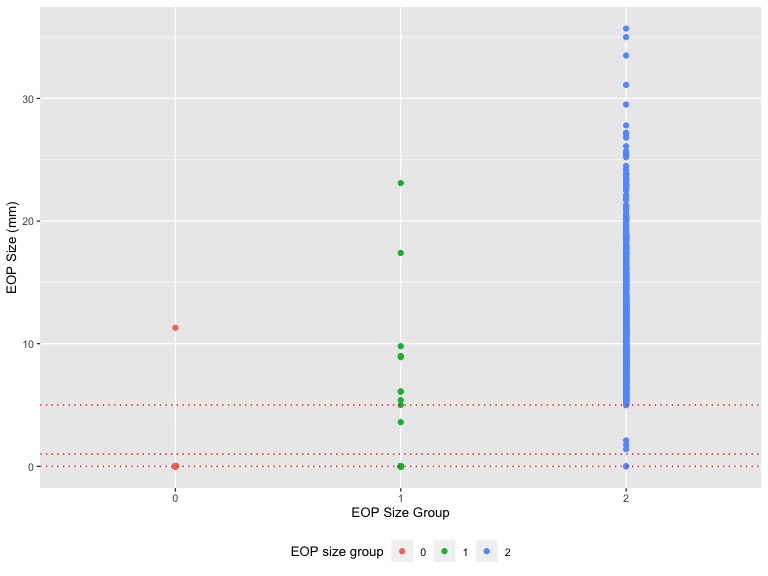
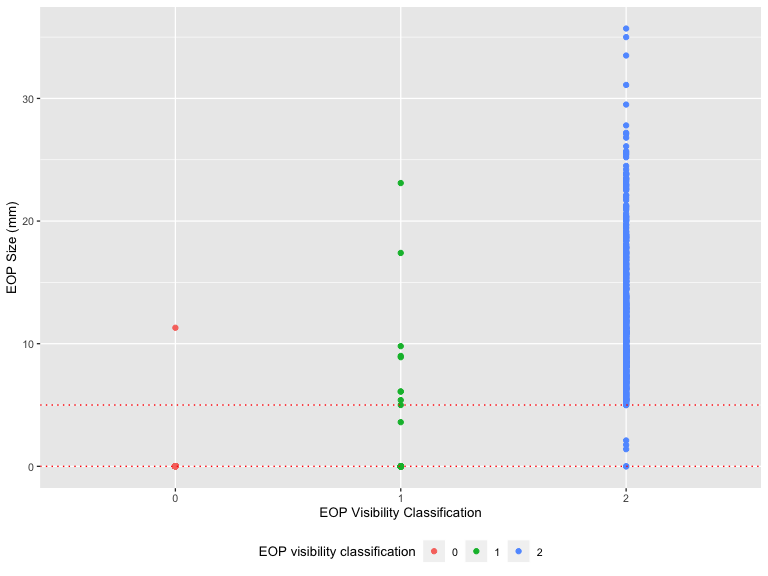
Update the report.

Changed region(s): [[0.3438, 0.9375, 0.6875, 0.9688], [0.4062, 0.875, 0.625, 0.9062]]

diff --git a/p8105_mtp_jc5314.md b/p8105_mtp_jc5314.md
@@ -5,19 +5,18 @@ Junxian Chen (jc5314)
 
 ## Introduction:
 
-An article was published on Nature Scientific Reports in 2018 which
-describing relationship between forward head protraction (FHP) and
-enlarged external occipital protuberance (EEOP). The researchers
-analyzed data from people with different ages and sex, and pointed out
-that the prominent exostosis were more substantial and prevalent in
-young adults than older groups. However, people were skeptical about
-this study and a published author correction indicated that errors or
-defects existed in the original work. In this project, the data that
-accompany the author correction from this study are used to test if
-mistakes are still exist and to exam whether the results are consistent
-with that reported in the article.
+An article published on Nature Scientific Reports described relationship
+between forward head protraction (FHP) and enlarged external occipital
+protuberance (EEOP). The researchers analyzed data from individuals with
+different ages and sex, and pointed out that the prominent exostosis
+were more substantial and prevalent in young adults than older groups.
+However, people were skeptical about this study and a published author
+correction indicated that errors or defects existed in the original
+work. In this project, the data that accompany the author correction are
+used to test whether mistakes are still exist and the results are
+consistent with that reported in the article.
 
-## Section 1: Dataset
+## 1\. Dataset
 
 ### 1.1 Dataset Description
 
@@ -35,7 +34,7 @@ mtp_data =
     sex = as.character(sex),
     age = as.integer(age),
     age_group = case_when(
-      age_group  %in% c('6', '7', '8') ~ '6+', 
+      age_group %in% c('6', '7', '8') ~ '6+', 
       TRUE ~ age_group ),
     age_group = factor(age_group, levels = c('1', '2', '3', '4', '5', '6+')),
     eop_size = factor(eop_size, levels = c('0', '1', '2', '3', '4', '5')),
@@ -60,15 +59,21 @@ str(mtp_data)
 
 The raw dataset was imported and cleaned. (Because the raw dataset would
 be used later to illustrate mistakes, the process of importing and
-cleaning were seperated here). In the data cleaning, missing values were
-filled according to the header information, variable types were
+cleaning were seperated here). During the data cleaning, missing values
+were filled according to the header information, variable types were
 modified, and orders were given to the factor variables. Since the
-article used all individuls older than 60 as a whole ‘\>60’ group, those
-people were all assigned as ‘6+’ under the `age_group` variables here to
+article treated individuls older than 60 as ‘\>60’ group, those people
+were all assigned as ‘6+’ under the `age_group` variables here to
 facilitate furthur analyses.
 
 After data cleaning, the resulting dataset, named `mtp_data`, contains
-1221 observations (i.e. the number of participants) and 9 variables.
+1221 observations (i.e. the number of participants) and 9 variables. Key
+variables: The average value in **age** was 45.5118755. The average
+**EOP size** was 6.8330549 mm. The average **FHP size** was 26.1013416
+mm. It was noticed that `NA` exist in the `fhp_size_mm` and `eop_shape`.
+Since no information was provided, the `NA`’s here were left blank.
+
+A table below shows the age and gender distribution.
 
 ``` r
 mtp_data %>% 
@@ -102,11 +107,7 @@ mtp_data %>%
 | larger than 60 |    155 |  150 |
 | less than 18   |      1 |    1 |
 
-### 1.2 Issues Noticed in Dataset:
-
-1)  One mistake in the age group ‘1’.
-
-<!-- end list -->
+### 1.2 Issues in Dataset:
 
 ``` r
 mtp_data %>% 
@@ -127,7 +128,9 @@ mtp_data %>%
 
 <img src="p8105_mtp_jc5314_files/figure-gfm/unnamed-chunk-5-1.png" width="90%" />
 
-2)  
+  - An outlier in the ‘\<18’s’ group indicates a person older than 18
+    was mistakenly labled into this group.
+
 <!-- end list -->
 
 ``` r
@@ -142,8 +145,11 @@ mtp_data %>%
 
 <img src="p8105_mtp_jc5314_files/figure-gfm/unnamed-chunk-6-1.png" width="90%" />
 
-Lots of mistakes in the classification in EOP size. Also, the ‘NA’ in
-the plots indicates a mistake value in EOP size grouping:
+  - Outliers indicate more misclassifications in EOP size group,
+    especially in group ‘1’, ‘3’, ‘4’, ‘5’. The `NA` in the x-axis
+    indicates an abnormal value in EOP size group.
+
+<!-- end list -->
 
 ``` r
 row_na = which(is.na(pull(mtp_data, eop_size)))
@@ -155,21 +161,24 @@ raw_data[row_na,] %>%
 | --: | --: | :-------- | ------------: | :------- | ----------------------------: | --------: | ------------: | :----------- |
 |   1 |  62 | 6         |            15 | 14.6     |                             2 |         2 |          40.8 | 4            |
 
+After tracing back, the induced `NA` is due to the value ‘14.6’ in ‘EOP
+siz’, which suppose to be 0 ~ 5, in raw dataset.
+
 ``` r
 mtp_data %>% 
   ggplot(aes(x = eop_visibility_classification, y = eop_size_mm, color = eop_visibility_classification)) +
   geom_point() +
-  geom_hline(yintercept = c(0, 1, 5), color = 'red', linetype = 'dotted') + 
-  xlab('EOP Size Group') +
+  geom_hline(yintercept = c(0, 5), color = 'red', linetype = 'dotted') + 
+  xlab('EOP Visibility Classification') +
   ylab('EOP Size (mm)') +
-  scale_color_hue(name = "EOP size group")
+  scale_color_hue(name = "EOP visibility classification")
 ```
 
 <img src="p8105_mtp_jc5314_files/figure-gfm/unnamed-chunk-8-1.png" width="90%" />
 
-Lots of mistakes in the classification in EOP visibility.
+  - Outliers indicate misclassifications exist in all three groups in
+    EOP visibility classification.
 
-3)  
 <!-- end list -->
 
 ``` r
@@ -184,6 +193,12 @@ mtp_data %>%
 
 <img src="p8105_mtp_jc5314_files/figure-gfm/unnamed-chunk-9-1.png" width="90%" />
 
+  - Outliers indicate misclassifications exist in FHP size group,
+    especially in group 1, 2, 4. An `NA` in x-axis indicates an abnormal
+    value in raw data.
+
+<!-- end list -->
+
 ``` r
 row_na = which(is.na(pull(mtp_data, fhp_category)))
 raw_data[row_na,] %>% 
@@ -194,7 +209,10 @@ raw_data[row_na,] %>%
 | --: | --: | :-------- | ------------: | :------- | ----------------------------: | --------: | ------------: | :----------- |
 |   0 |  51 | 5         |            NA | 0        |                             0 |        NA |          30.3 | 30.8         |
 
-## Section 2: Visualization Improvement
+After tracing back, the induced `NA` is due to the ‘30.8’ in ‘FHP
+Category’, which suppose to be 0 ~ 7, in raw dataset.
+
+## 2\. Visualization Improvement
 
 ``` r
 fhp_plot =
@@ -289,7 +307,7 @@ fhp_eop_plot
 
 <img src="p8105_mtp_jc5314_files/figure-gfm/unnamed-chunk-14-1.png" width="90%" />
 
-## Section 3: Reproducing reported results
+## 3\. Reproducing reported results
 
 Are the authors’ stated sample sizes in each age group consistent with
 the data you have available? Ans:No.
@@ -417,7 +435,7 @@ mtp_data %>%
     ##   <fct>     <dbl>
     ## 1 6+        0.325
 
-## Section 4: Summary and Discussions
+## 4\. Summary and Discussions
 
 Summarize your results, the quality of the data analysis / presentation
 of results in the original report, and comment on the conclusions of the
